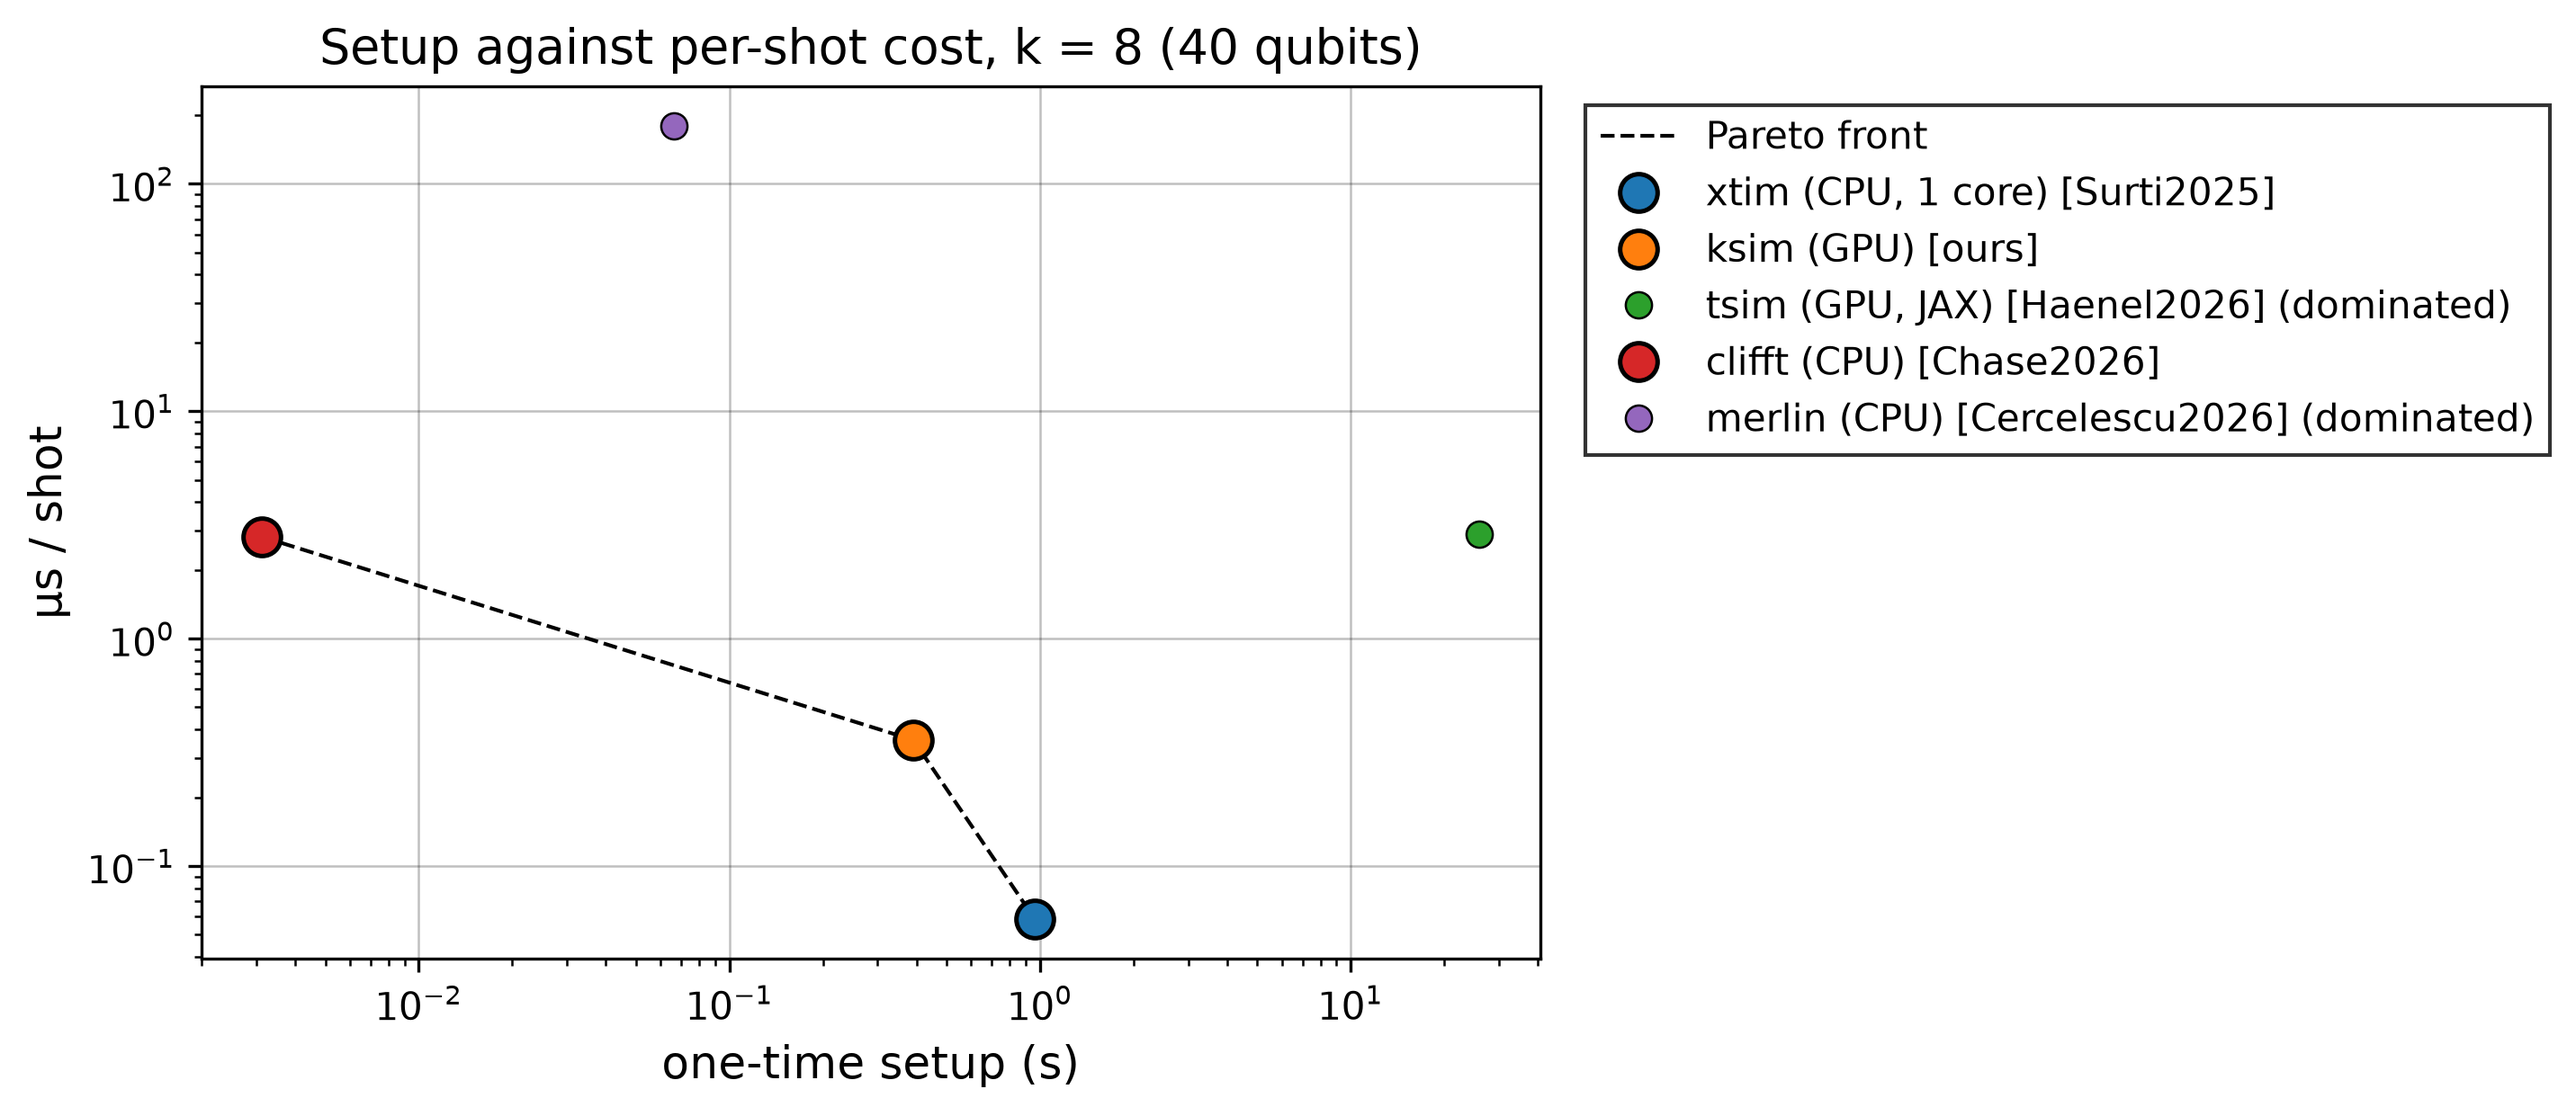
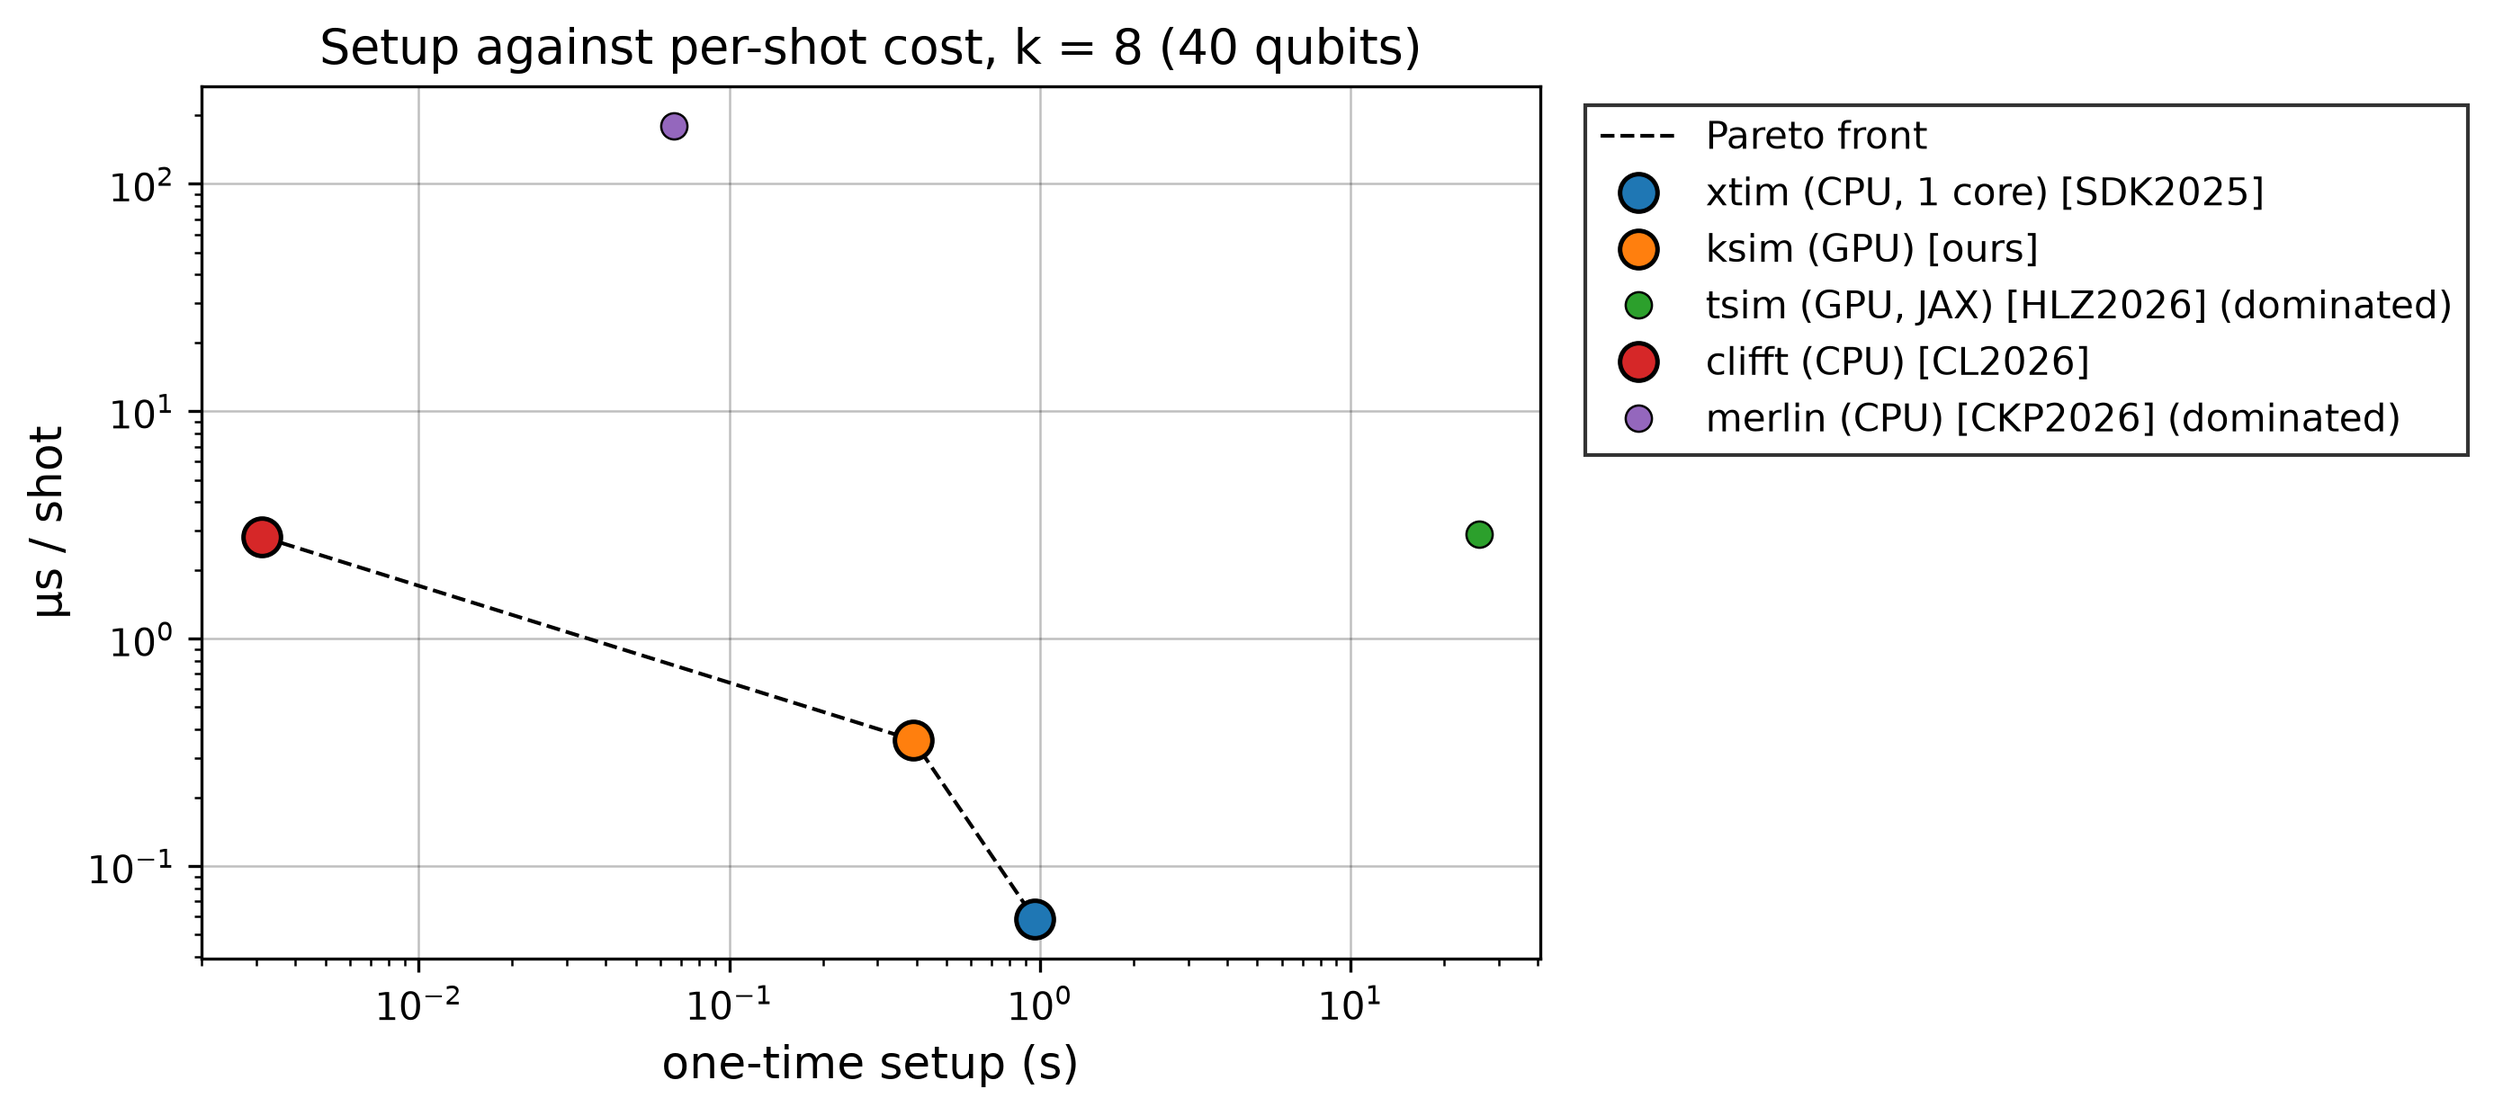
plot_scaling: author-initial citation keys (SDK2025, HLZ2026, CL2026, CKP2026)

diff --git a/benchmarks/plot_scaling.py b/benchmarks/plot_scaling.py
@@ -44,18 +44,18 @@ import matplotlib.pyplot as plt
 
 COLOURS = {"xtim": "#1f77b4", "ksim": "#ff7f0e", "tsim": "#2ca02c",
            "clifft": "#d62728", "merlin": "#9467bd"}
-LABELS = {"xtim": "xtim (CPU, 1 core) [Surti2025]",
+LABELS = {"xtim": "xtim (CPU, 1 core) [SDK2025]",
           "ksim": "ksim (GPU) [ours]",
-          "tsim": "tsim (GPU, JAX) [Haenel2026]",
-          "clifft": "clifft (CPU) [Chase2026]",
-          "merlin": "merlin (CPU) [Cercelescu2026]"}
-# Surti2025       arXiv:2512.23799   Surti, Daguerre, Kim, "Efficient simulation of logical
+          "tsim": "tsim (GPU, JAX) [HLZ2026]",
+          "clifft": "clifft (CPU) [CL2026]",
+          "merlin": "merlin (CPU) [CKP2026]"}
+# SDK2025         arXiv:2512.23799   Surti, Daguerre, Kim, "Efficient simulation of logical
 #                                    magic state preparation protocols"
-# Haenel2026      arXiv:2604.01059   Haenel, Luo, Zhao, "Tsim: Fast Universal Simulator for
+# HLZ2026         arXiv:2604.01059   Haenel, Luo, Zhao, "Tsim: Fast Universal Simulator for
 #                                    Quantum Error Correction"
-# Chase2026       arXiv:2604.27058   Chase, Labib, "Clifft: Fast Exact Simulation of
+# CL2026          arXiv:2604.27058   Chase, Labib, "Clifft: Fast Exact Simulation of
 #                                    Near-Clifford Quantum Circuits"
-# Cercelescu2026  arXiv:2610.06811   Cercelescu, Koch, Pesah, "Polynomial-time simulation of
+# CKP2026         arXiv:2610.06811   Cercelescu, Koch, Pesah, "Polynomial-time simulation of
 #                                    non-Clifford quantum error correction"
 SHOT_COUNTS = ((10**6, "-"), (10**8, ":"))
 WALL_SHOTS = 10**6

diff --git a/docs/benchmarks.md b/docs/benchmarks.md
@@ -153,7 +153,7 @@ so the circuit carries k independent magic states (`benchmarks/bench_scaling.py`
   timed draws; tsim is timed at one fixed batch shape (4 096) so no XLA recompile lands in the timing.
 - **CPU (Xeon Gold 6548Y+):** xtim (single-threaded), clifft and merlin.
 
-Legend keys: [Surti2025] = xtim, [arXiv:2512.23799](https://arxiv.org/abs/2512.23799); [Haenel2026] = tsim, [arXiv:2604.01059](https://arxiv.org/abs/2604.01059); [Chase2026] = clifft, [arXiv:2604.27058](https://arxiv.org/abs/2604.27058); [Cercelescu2026] = merlin, [arXiv:2610.06811](https://arxiv.org/abs/2610.06811).
+Legend keys: [SDK2025] = xtim, [arXiv:2512.23799](https://arxiv.org/abs/2512.23799); [HLZ2026] = tsim, [arXiv:2604.01059](https://arxiv.org/abs/2604.01059); [CL2026] = clifft, [arXiv:2604.27058](https://arxiv.org/abs/2604.27058); [CKP2026] = merlin, [arXiv:2610.06811](https://arxiv.org/abs/2610.06811).
 
 Each point draws 100 000 shots. A build killed after 600 s drops that engine from every larger k.
 Each cell is setup / µs per shot:
